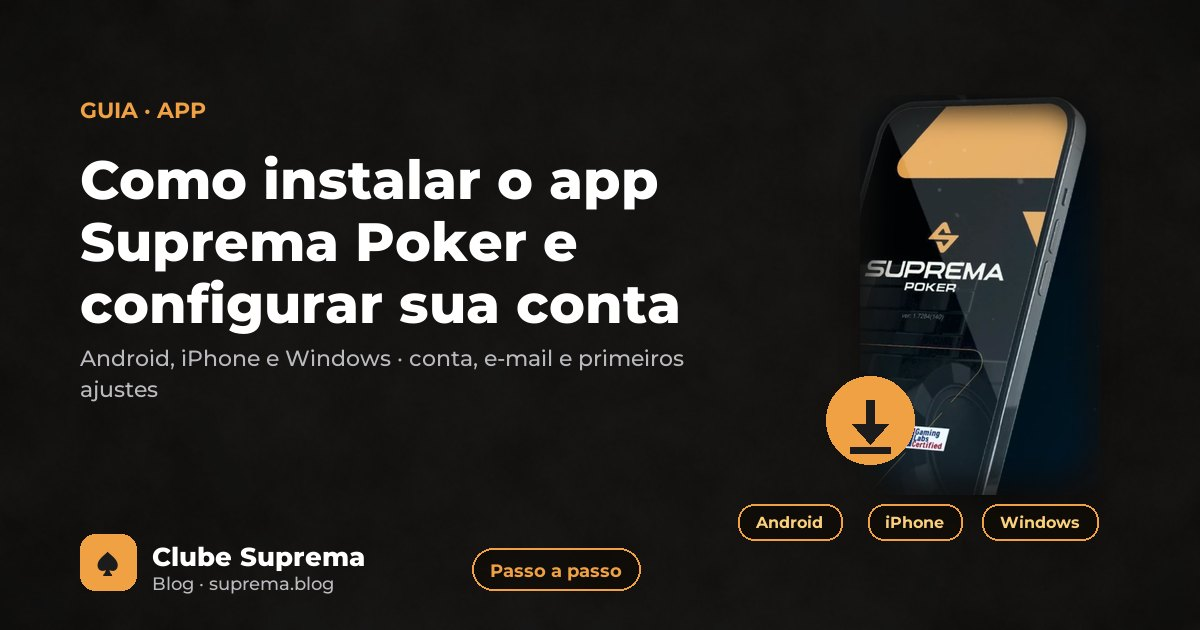
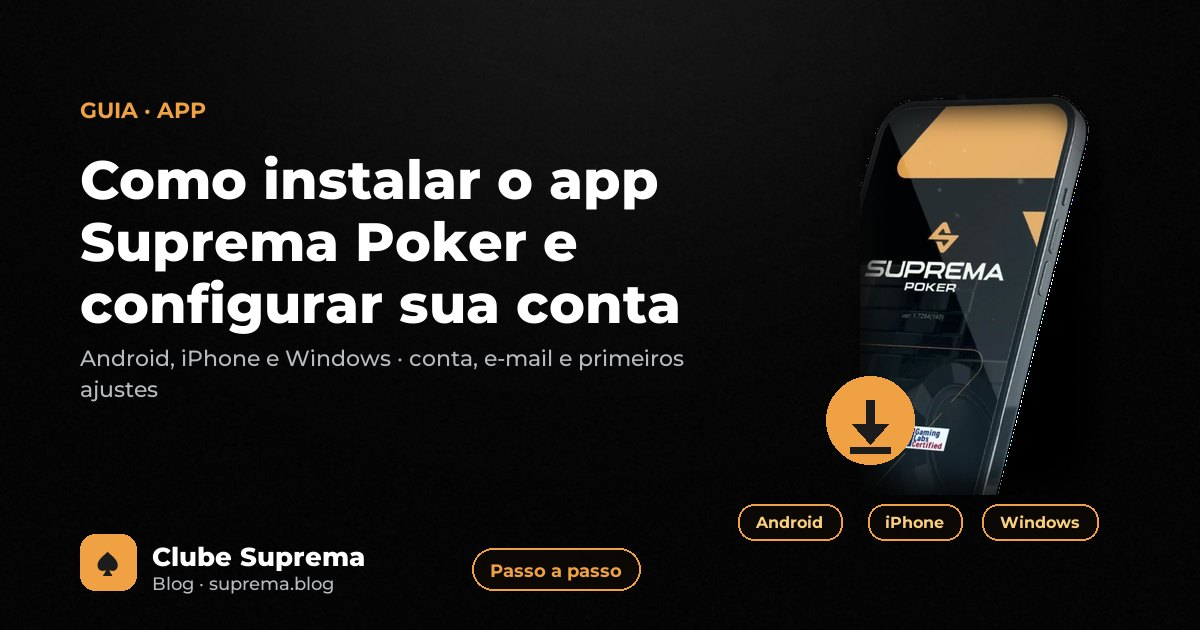
Fundo veludo preto aprovado pelo usuario; celular do hero recortado sem o fundo azul; capas, imagem social e kit do YouTube no mesmo fundo

Changed region(s): [[0.8325, 0.3921, 0.925, 0.754]]

diff --git a/public/styles.css b/public/styles.css
@@ -179,12 +179,9 @@ main { max-width: 1120px; margin: 0 auto; padding: 0 var(--side); }
 .phone-stage { width: min(100%, 440px); transform-style: preserve-3d; will-change: transform; }
 .phone-float { position: relative; animation: float 6s ease-in-out infinite; }
 .phone {
-  display: block; width: 100%; height: auto; mix-blend-mode: screen;
-  -webkit-mask-image: linear-gradient(to right, transparent, #000 9%, #000 91%, transparent), linear-gradient(to bottom, transparent, #000 9%, #000 91%, transparent);
-  -webkit-mask-composite: source-in;
-  mask-image: linear-gradient(to right, transparent, #000 9%, #000 91%, transparent), linear-gradient(to bottom, transparent, #000 9%, #000 91%, transparent);
-  mask-composite: intersect;
-  filter: drop-shadow(0 30px 60px rgba(0, 0, 0, .6));
+  /* imagens já recortadas (fundo transparente): sem máscara nem blend */
+  display: block; width: 100%; height: auto;
+  filter: drop-shadow(0 30px 60px rgba(0, 0, 0, .7));
 }
 .phone-mesa { position: absolute; inset: 0; opacity: 0; animation: phone-in 1.4s var(--ease) 1.8s forwards; }
 .phone-abertura { animation: phone-out 1.4s var(--ease) 1.8s forwards; }

diff --git a/tools/imagens/recorte-celular.py b/tools/imagens/recorte-celular.py
@@ -1,0 +1,58 @@
+"""Recorta o celular das imagens do app (remove o fundo azul-marinho) e salva com transparencia.
+
+Uso: python recorte.py <entrada.webp> <saida.webp> <preview.png>
+O fundo e detectado por cor (azul: B > G, B - R >= 6, B >= 1.5R + 3); a silhueta do aparelho e a regiao
+conectada ao centro da imagem; furos internos (icones azuis da tela) sao preenchidos.
+"""
+import sys
+from PIL import Image, ImageChops, ImageDraw, ImageFilter
+
+src, dst, prev = sys.argv[1], sys.argv[2], sys.argv[3]
+im = Image.open(src).convert("RGB")
+W, H = im.size
+r, g, b = im.split()
+
+c1 = ImageChops.subtract(b, g).point(lambda v: 255 if v > 0 else 0)          # B > G
+c2 = ImageChops.subtract(b, r).point(lambda v: 255 if v >= 6 else 0)         # B - R >= 6
+r15 = r.point(lambda v: min(255, int(v * 1.9 + 6)))
+c3 = ImageChops.subtract(b, r15, 1, 1).point(lambda v: 255 if v >= 1 else 0)  # B >= 1.9R + 6 (tela escura azulada fica no celular)
+bg = ImageChops.multiply(ImageChops.multiply(c1, c2), c3)
+fg = ImageChops.invert(bg)
+
+# fecha pequenos furos antes de buscar a regiao conectada
+fg = fg.filter(ImageFilter.MaxFilter(3)).filter(ImageFilter.MinFilter(3))
+
+seed = (W // 2, H // 2)
+assert fg.getpixel(seed) == 255, "o centro da imagem nao caiu no celular"
+ImageDraw.floodfill(fg, seed, 128)
+sil = fg.point(lambda v: 255 if v == 128 else 0)
+
+# preenche furos: tudo que nao e alcancavel a partir do canto (fundo) vira celular
+inv = ImageChops.invert(sil)
+for corner in ((0, 0), (W - 1, 0), (0, H - 1), (W - 1, H - 1)):
+    if inv.getpixel(corner) == 255:
+        ImageDraw.floodfill(inv, corner, 128)
+holes = inv.point(lambda v: 255 if v == 255 else 0)
+sil = ImageChops.lighter(sil, holes)
+
+# o aparelho e convexo linha a linha: preenche entre o primeiro e o ultimo pixel de cada linha
+# (cobre furos encostados na borda da imagem, onde o celular sai do quadro)
+d = ImageDraw.Draw(sil)
+for y in range(H):
+    bb = sil.crop((0, y, W, y + 1)).getbbox()
+    if bb:
+        d.line((bb[0], y, bb[2] - 1, y), fill=255)
+
+# suaviza a borda e tira 1 px para nao sobrar franja azul
+sil = sil.filter(ImageFilter.MinFilter(3)).filter(ImageFilter.GaussianBlur(0.9))
+
+out = im.convert("RGBA")
+out.putalpha(sil)
+out.save(dst, "WEBP", quality=92, method=6, exact=True)
+
+# preview sobre preto para conferencia
+pv = Image.new("RGBA", (W, H), (6, 6, 6, 255))
+pv.alpha_composite(out)
+pv.convert("RGB").save(prev, "PNG")
+bbox = sil.getbbox()
+print(dst, "ok; bbox do celular:", bbox)

diff --git a/tools/imagens/luxo.py b/tools/imagens/luxo.py
@@ -159,6 +159,28 @@ def paste(img, im, xy, shadow=True, glow=0.0):
     img.alpha_composite(im, xy)
 
 
+# ------------------------------------------------------------------ fundo "veludo preto" (opcao 1 escolhida pelo usuario em 24/10/2026)
+
+def grain(W, H, amount=0.03, base=5):
+    n = Image.effect_noise((W, H), 60).filter(ImageFilter.GaussianBlur(0.8))
+    lum = n.point(lambda v: max(0, min(255, int(base + (v - 128) * amount * 1.6))))
+    return Image.merge("RGB", (lum, lum, lum)).convert("RGBA")
+
+
+def velvet_background(W, H, light=26, vignette=0.6):
+    """Preto profundo com grao finissimo e uma luz suave e neutra no alto. Sem dourado."""
+    img = grain(W, H)
+    lt = Image.new("RGBA", (W, H), (0, 0, 0, 0))
+    ImageDraw.Draw(lt).ellipse((W * 0.1, -H * 0.55, W * 0.9, H * 0.45), fill=(255, 255, 255, light))
+    img = Image.alpha_composite(img, lt.filter(ImageFilter.GaussianBlur(W / 6)))
+    vg = Image.new("L", (W, H), 0)
+    ImageDraw.Draw(vg).ellipse((-W * 0.15, -H * 0.35, W * 1.15, H * 1.35), fill=255)
+    vg = vg.filter(ImageFilter.GaussianBlur(W / 7))
+    dark = Image.new("RGBA", (W, H), (0, 0, 0, 255))
+    dark.putalpha(ImageChops.invert(vg).point(lambda v: int(v * vignette)))
+    return Image.alpha_composite(img, dark)
+
+
 # ------------------------------------------------------------------ fundo "preto sofisticado"
 # Referencia do usuario: preto fosco com textura de reboco/concreto e barras douradas finas nas laterais.
 

diff --git a/tools/imagens/youtube.py b/tools/imagens/youtube.py
@@ -82,7 +82,7 @@ SX1, SY1 = SX0 + SAFE_W, SY0 + SAFE_H            # 2053, 931
 
 
 def banner():
-    img = luxo.sophisticated_background(W, H, bars=False)
+    img = luxo.velvet_background(W, H)
 
     # decoracao fora da area segura (aparece no desktop e na TV)
     luxo.paste(img, chip(250), (120, SY0 + 70))
@@ -161,7 +161,7 @@ def banner():
 # ------------------------------------------------------------------ perfil
 def profile():
     S = 800
-    img = luxo.sophisticated_background(S, S, bars=False)
+    img = luxo.velvet_background(S, S, light=40)
     luxo.paste(img, luxo.gold_ring(S, 352, 341), (0, 0), shadow=False, glow=0.35)
     luxo.gold_text(img, (S / 2, S / 2 + 22), "\u2660", symbol(500), anchor="mm", glow=0.6)
     img.convert("RGB").save(os.path.join(OUT, "perfil-youtube-800x800.png"), optimize=True)

diff --git a/tools/imagens/fundo-web.py b/tools/imagens/fundo-web.py
@@ -9,7 +9,7 @@ ROOT = sys.argv[1]
 out = os.path.join(ROOT, "public", "img")
 os.makedirs(out, exist_ok=True)
 
-luxo.plaster_texture(1920, 1200).convert("RGB").save(os.path.join(out, "bg-luxo.webp"), "WEBP", quality=82, method=6)
-luxo.plaster_texture(900, 1600).convert("RGB").save(os.path.join(out, "bg-luxo-m.webp"), "WEBP", quality=80, method=6)
+luxo.velvet_background(1920, 1200).convert("RGB").save(os.path.join(out, "bg-luxo.webp"), "WEBP", quality=82, method=6)
+luxo.velvet_background(900, 1600).convert("RGB").save(os.path.join(out, "bg-luxo-m.webp"), "WEBP", quality=80, method=6)
 for f in ("bg-luxo.webp", "bg-luxo-m.webp"):
     print(f, os.path.getsize(os.path.join(out, f)) // 1024, "KB")

diff --git a/tools/imagens/capas.py b/tools/imagens/capas.py
@@ -40,7 +40,7 @@ def overlay(img, fn):
 
 
 def background():
-    return luxo.sophisticated_background(W, H, bars=False)
+    return luxo.velvet_background(W, H)
 
 def brand_mark(d, x, y, s):
     d.rounded_rectangle((x, y, x + s, y + s), radius=int(s * 0.28), fill=GOLD)

diff --git a/docs/design-system.md b/docs/design-system.md
@@ -94,7 +94,7 @@ vivem em `public/styles.css`; os neutros ficaram quentes (`--bg-1 #15110a`, `--c
 
 | Elemento | Regra | Onde |
 |---|---|---|
-| Fundo | preto fosco `#060606` com textura sutil de reboco (ruído em 3 escalas, vinheta leve), sem feixes, brilhos ou barras. As barras douradas laterais da referência do usuário foram testadas em 24/10/2026 e rejeitadas por ele ("horrível"); mudanças de fundo pedem prévia antes de publicar | textura: `public/img/bg-luxo.webp` e `bg-luxo-m.webp` (`luxo.plaster_texture`), na LP em `.bg`, no blog via `body.page-blog::before` |
+| Fundo | "veludo preto", escolhido pelo usuário em 24/10/2026 entre 3 prévias: preto profundo com grão finíssimo, uma luz suave e neutra no alto e vinheta; sem dourado, feixes, partículas ou barras. Imagens do celular do hero recortadas sem o fundo azul (`tools/imagens/recorte-celular.py`) | `luxo.velvet_background()`; textura em `public/img/bg-luxo.webp` e `bg-luxo-m.webp`, na LP em `.bg`, no blog via `body.page-blog::before`; capas, imagem social e kit do YouTube usam a mesma função |
 | Degradê dourado | `linear-gradient(180deg, #f9cf7f 0%, #efa144 52%, #d4852a 100%)` com brilho fino no topo | `--gold-grad` em `blog.css`; botões `.btn`, marca `.brand-mark`, `luxo.gold_rounded()` nas imagens |
 | Botão | degradê dourado, texto `#1a1206` em caixa alta, peso 800, raio 14 px, sombra dourada suave; `.btn-ghost.btn-block` (frases longas) fica em caixa normal | `.btn` em `styles.css` |
 | Botão fantasma | fundo quase transparente, borda 1 px dourada, texto `#f3b662` | `.btn-ghost` |
